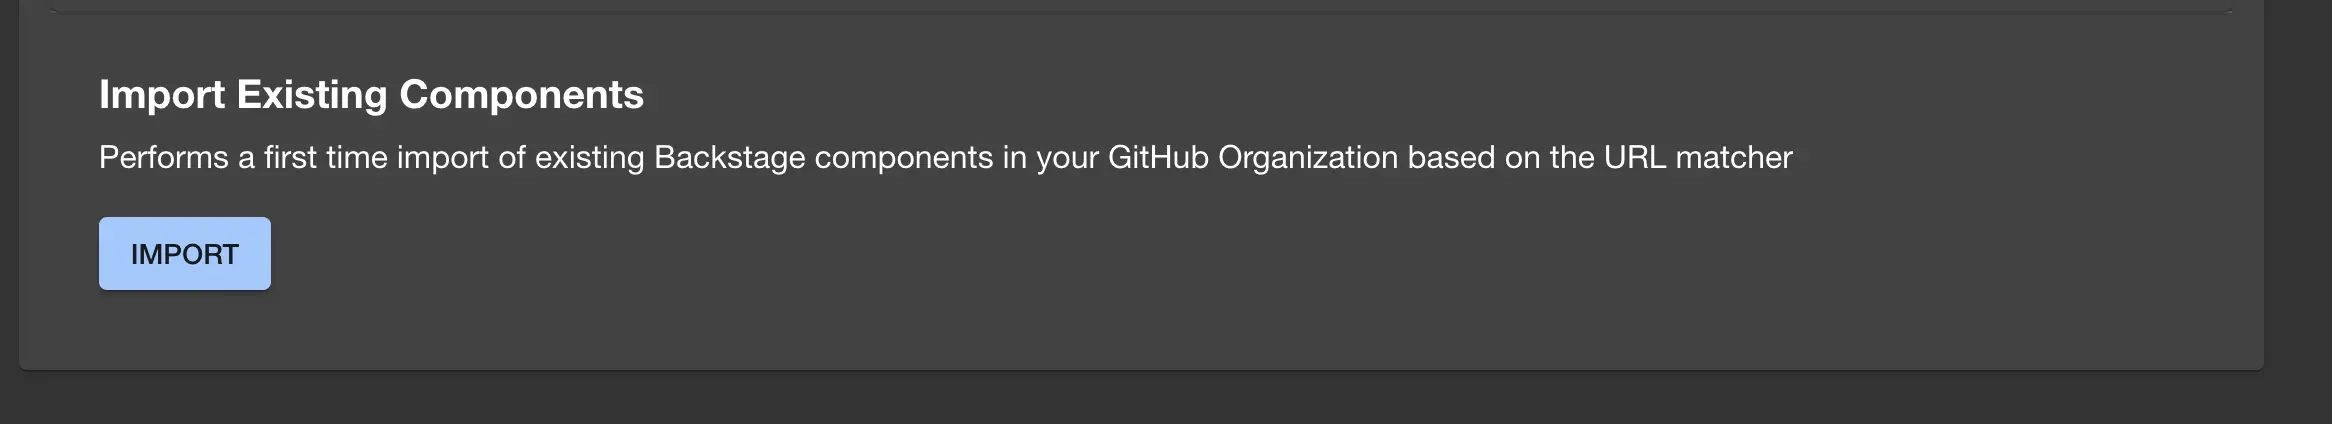
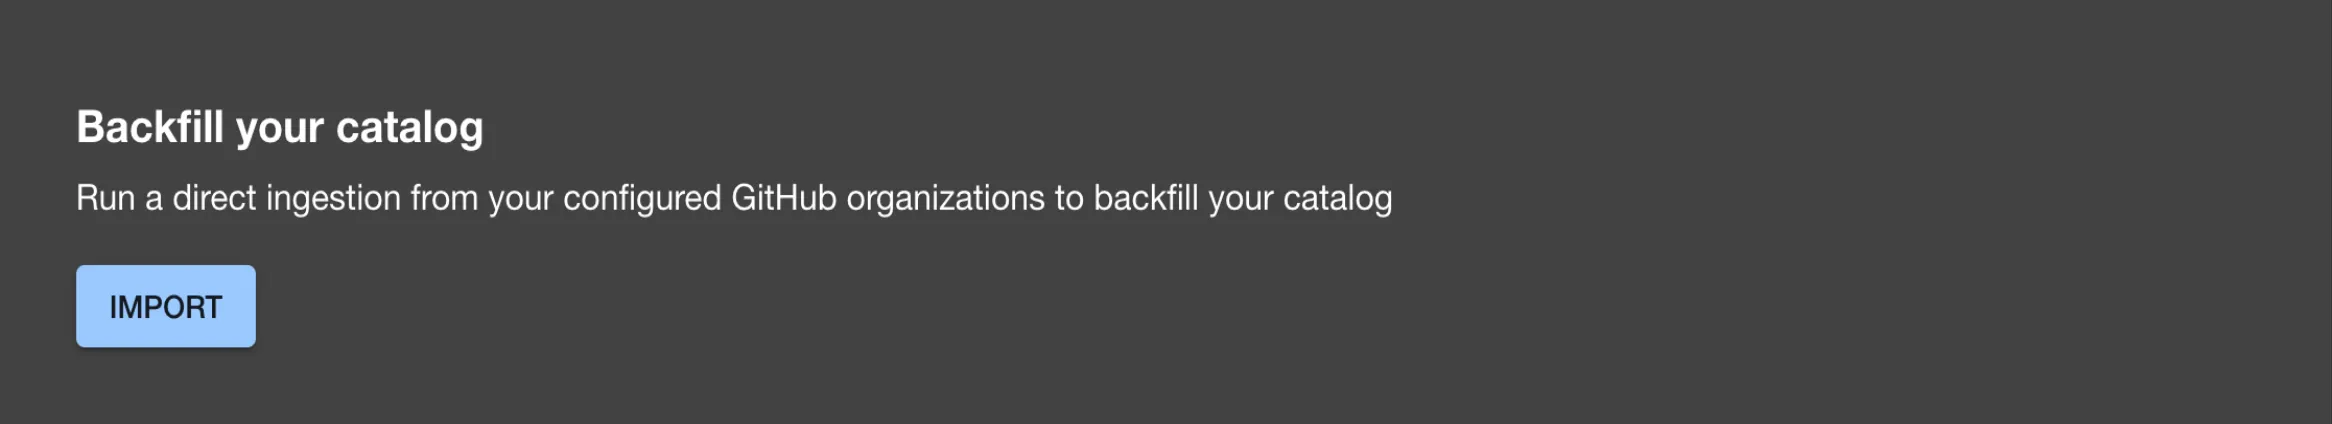
add new images

Changed region(s): [[0.0309, 0.184, 0.7719, 0.3986], [0.0309, 0.4292, 0.6175, 0.8278], [0.0, 0.8585, 0.9571, 0.8892]]

diff --git a/content/docs/integrations/initial-github-discovery/index.md b/content/docs/integrations/initial-github-discovery/index.md
@@ -21,8 +21,8 @@ Roadie can perform on demand syncs with your organisation. This is useful in a c
 ## Steps
 
 1. Visit the Administration > Settings page and click on GitHub under Integrations
-2. Scroll down to the `Import Existing Components` section.
-   ![Image with the import existing components section](./import-existing-components.webp)
+2. Scroll down to the `Backfill your catalog` section.
+   ![Image with the backfill your catalog section](./import-existing-components.webp)
 3. Press the `IMPORT` button in the bottom left corner.
 4. A modal will open up.
    ![Opened modal](./modal.webp)
